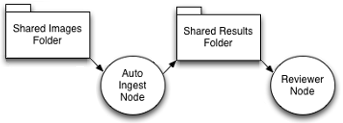
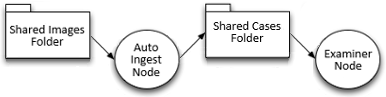
Update wording in the auto ingest settings panel

Changed region(s): [[0.0, 0.0, 1.0, 0.9897], [0.3207, 0.2784, 0.4373, 0.4021], [0.9329, 0.8351, 0.9621, 0.8969]]

diff --git a/Experimental/src/org/sleuthkit/autopsy/experimental/configuration/AutoIngestSettingsPanel.java b/Experimental/src/org/sleuthkit/autopsy/experimental/configuration/AutoIngestSettingsPanel.java
@@ -758,16 +758,15 @@ public class AutoIngestSettingsPanel extends javax.swing.JPanel {
                             .addComponent(jRadioButtonAutomated))
                         .addPreferredGap(javax.swing.LayoutStyle.ComponentPlacement.RELATED, javax.swing.GroupLayout.DEFAULT_SIZE, Short.MAX_VALUE)
                         .addComponent(jLabel1))
-                    .addGroup(jPanelNodeTypeLayout.createParallelGroup(javax.swing.GroupLayout.Alignment.LEADING)
-                        .addGroup(jPanelNodeTypeLayout.createSequentialGroup()
-                            .addComponent(jLabelSelectInputFolder)
-                            .addGap(18, 18, 18)
-                            .addComponent(jLabelInvalidImageFolder, javax.swing.GroupLayout.DEFAULT_SIZE, javax.swing.GroupLayout.DEFAULT_SIZE, Short.MAX_VALUE))
-                        .addGroup(jPanelNodeTypeLayout.createSequentialGroup()
-                            .addComponent(jLabelSelectOutputFolder)
-                            .addGap(18, 18, 18)
-                            .addComponent(jLabelInvalidResultsFolder, javax.swing.GroupLayout.PREFERRED_SIZE, 544, javax.swing.GroupLayout.PREFERRED_SIZE)
-                            .addGap(0, 0, Short.MAX_VALUE))))
+                    .addGroup(jPanelNodeTypeLayout.createSequentialGroup()
+                        .addComponent(jLabelSelectInputFolder)
+                        .addGap(18, 18, 18)
+                        .addComponent(jLabelInvalidImageFolder, javax.swing.GroupLayout.DEFAULT_SIZE, javax.swing.GroupLayout.DEFAULT_SIZE, Short.MAX_VALUE))
+                    .addGroup(jPanelNodeTypeLayout.createSequentialGroup()
+                        .addComponent(jLabelSelectOutputFolder)
+                        .addGap(18, 18, 18)
+                        .addComponent(jLabelInvalidResultsFolder, javax.swing.GroupLayout.PREFERRED_SIZE, 544, javax.swing.GroupLayout.PREFERRED_SIZE)
+                        .addGap(0, 0, Short.MAX_VALUE)))
                 .addContainerGap())
         );
         jPanelNodeTypeLayout.setVerticalGroup(
